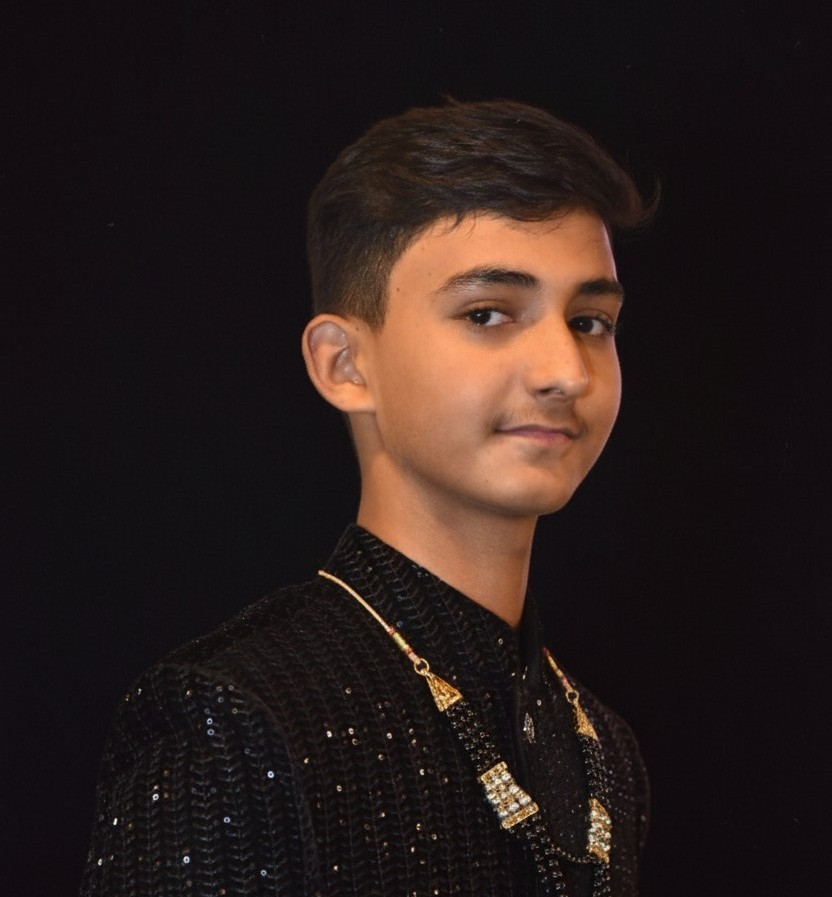
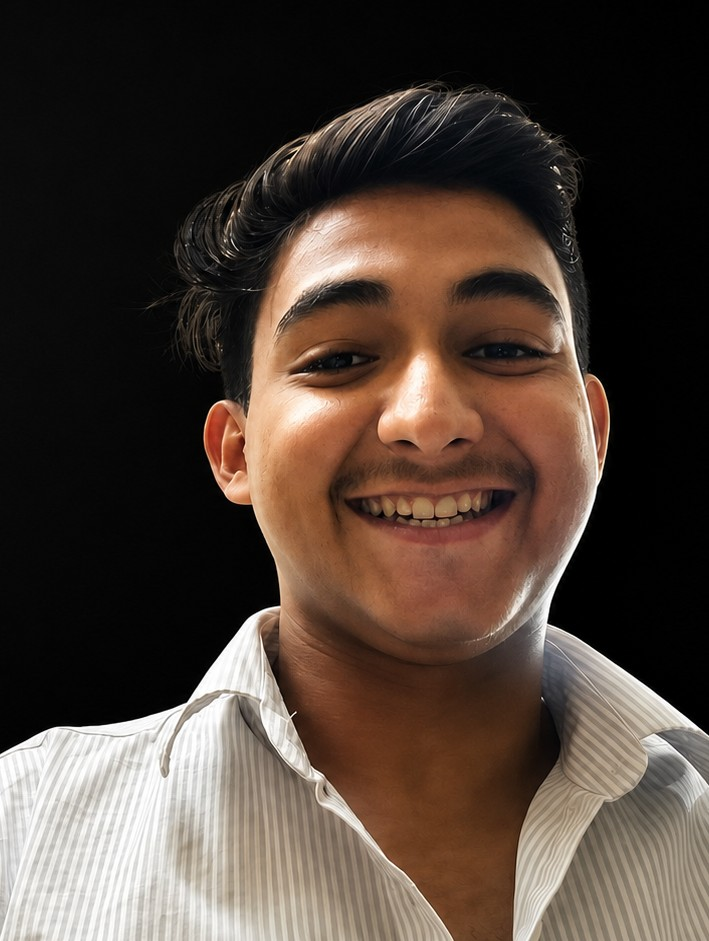
🚀 Mega Update: Vedaverse Recruitment Portal, UI Overhaul, & Email Backend Integration

diff --git a/vedaverse-frontend/src/components/Navbar.js b/vedaverse-frontend/src/components/Navbar.js
@@ -1,4 +1,5 @@
 import Link from 'next/link';
+import Image from 'next/image';
 import { useRouter } from 'next/router';
 import { useEffect, useState, useRef } from 'react';
 import { auth } from '../lib/firebase';
@@ -74,7 +75,18 @@ export default function Navbar() {
           </button>
         )}
         <div className="brand-wrapper" onClick={playClick}>
-          <Link href="/" style={{ textDecoration: 'none' }}>
+          {/* Logo and Brand Title aligned perfectly */}
+          <Link href="/" style={{ textDecoration: 'none', display: 'flex', alignItems: 'center', gap: '15px' }}>
+            <div className="logo-container">
+              <Image 
+                src="/images/veda-logo.png" 
+                alt="Vedaverse Logo" 
+                width={150} 
+                height={100} 
+                priority 
+                className="brand-logo"
+              />
+            </div>
             <h2 className="brand-title">VEDAVERSE</h2>
           </Link>
         </div>
@@ -197,6 +209,24 @@ export default function Navbar() {
           align-items: center;
         }
 
+        /* Logo Styling & Animation */
+        .logo-container {
+          display: flex;
+          align-items: center;
+          justify-content: center;
+        }
+
+        .brand-logo {
+          object-fit: contain;
+          transition: all 0.4s cubic-bezier(0.25, 1, 0.5, 1);
+          /* अगर तुम्हारा लोगो काले रंग का है और डार्क बैकग्राउंड में नहीं दिख रहा, तो नीचे वाली लाइन से /* हटा देना */
+          /* filter: invert(1) brightness(1.2); */
+        }
+
+        .brand-wrapper:hover .brand-logo {
+          transform: scale(1.1) rotate(5deg);
+        }
+
         .brand-title {
           font-family: 'Cinzel', serif;
           color: #f4f0eb;
@@ -207,7 +237,7 @@ export default function Navbar() {
           transition: color 0.3s ease;
         }
 
-        .brand-title:hover {
+        .brand-wrapper:hover .brand-title {
           color: #c5a059;
         }
 

diff --git a/vedaverse-frontend/src/pages/login.js b/vedaverse-frontend/src/pages/login.js
@@ -63,7 +63,7 @@ export default function Login() {
       // 2. ✅ UPDATED: Using the new live Render URL for backend check (if needed)
       // Note: Humne register aur verify-otp mein isi domain ka use kiya hai.
       try {
-          await fetch('https://veda-verse-9hpl.onrender.com/api/auth/login', {
+          await fetch('https://veda-verse-1.onrender.com/api/auth/login', {
               method: 'POST',
               headers: { 'Content-Type': 'application/json' },
               body: JSON.stringify({ email, password })

diff --git a/vedaverse-frontend/src/pages/verify-otp.js b/vedaverse-frontend/src/pages/verify-otp.js
@@ -26,7 +26,7 @@ export default function VerifyOTP() {
 
         try {
             // ✅ UPDATED: Using the new live Render URL
-            const res = await fetch('https://veda-verse-9hpl.onrender.com/api/auth/verify-otp', {
+            const res = await fetch('https://veda-verse-1.onrender.com/api/auth/verify-otp', {
                 method: 'POST',
                 headers: { 'Content-Type': 'application/json' },
                 body: JSON.stringify({ email, otp })

diff --git a/vedaverse-frontend/src/pages/recruitment/apply.js b/vedaverse-frontend/src/pages/recruitment/apply.js
@@ -54,7 +54,7 @@ export default function Apply() {
 
     try {
       // API call to our backend (Replace localhost URL when deploying backend to Vercel/Render)
-      const response = await fetch('http://localhost:5000/api/recruitment/apply', {
+      const response = await fetch('https://veda-verse-1.onrender.com/api/recruitment/apply', {
         method: 'POST',
         headers: { 'Content-Type': 'application/json' },
         body: JSON.stringify(applicationData)

diff --git a/vedaverse-frontend/src/pages/register.js b/vedaverse-frontend/src/pages/register.js
@@ -30,7 +30,7 @@ export default function Register() {
 
     try {
       // ✅ UPDATED: Using the new live Render URL provided
-      const res = await fetch('https://veda-verse-9hpl.onrender.com/api/auth/register', {
+      const res = await fetch('https://veda-verse-1.onrender.com/api/auth/register', {
         method: 'POST',
         headers: { 'Content-Type': 'application/json' },
         body: JSON.stringify({ name, email, password })
